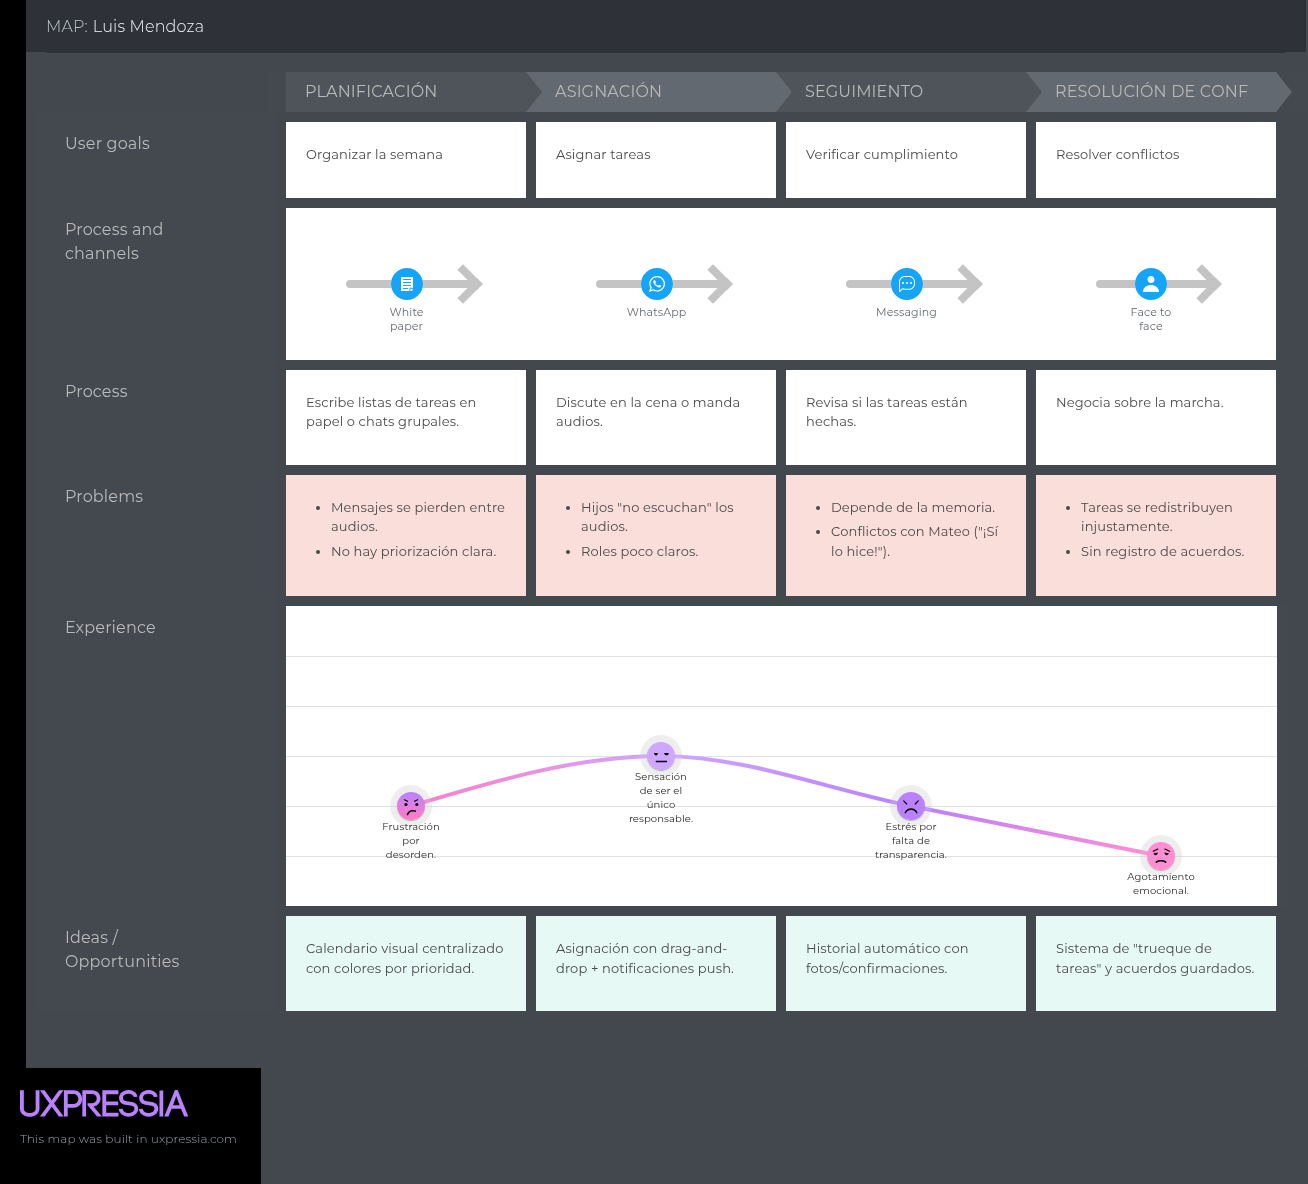
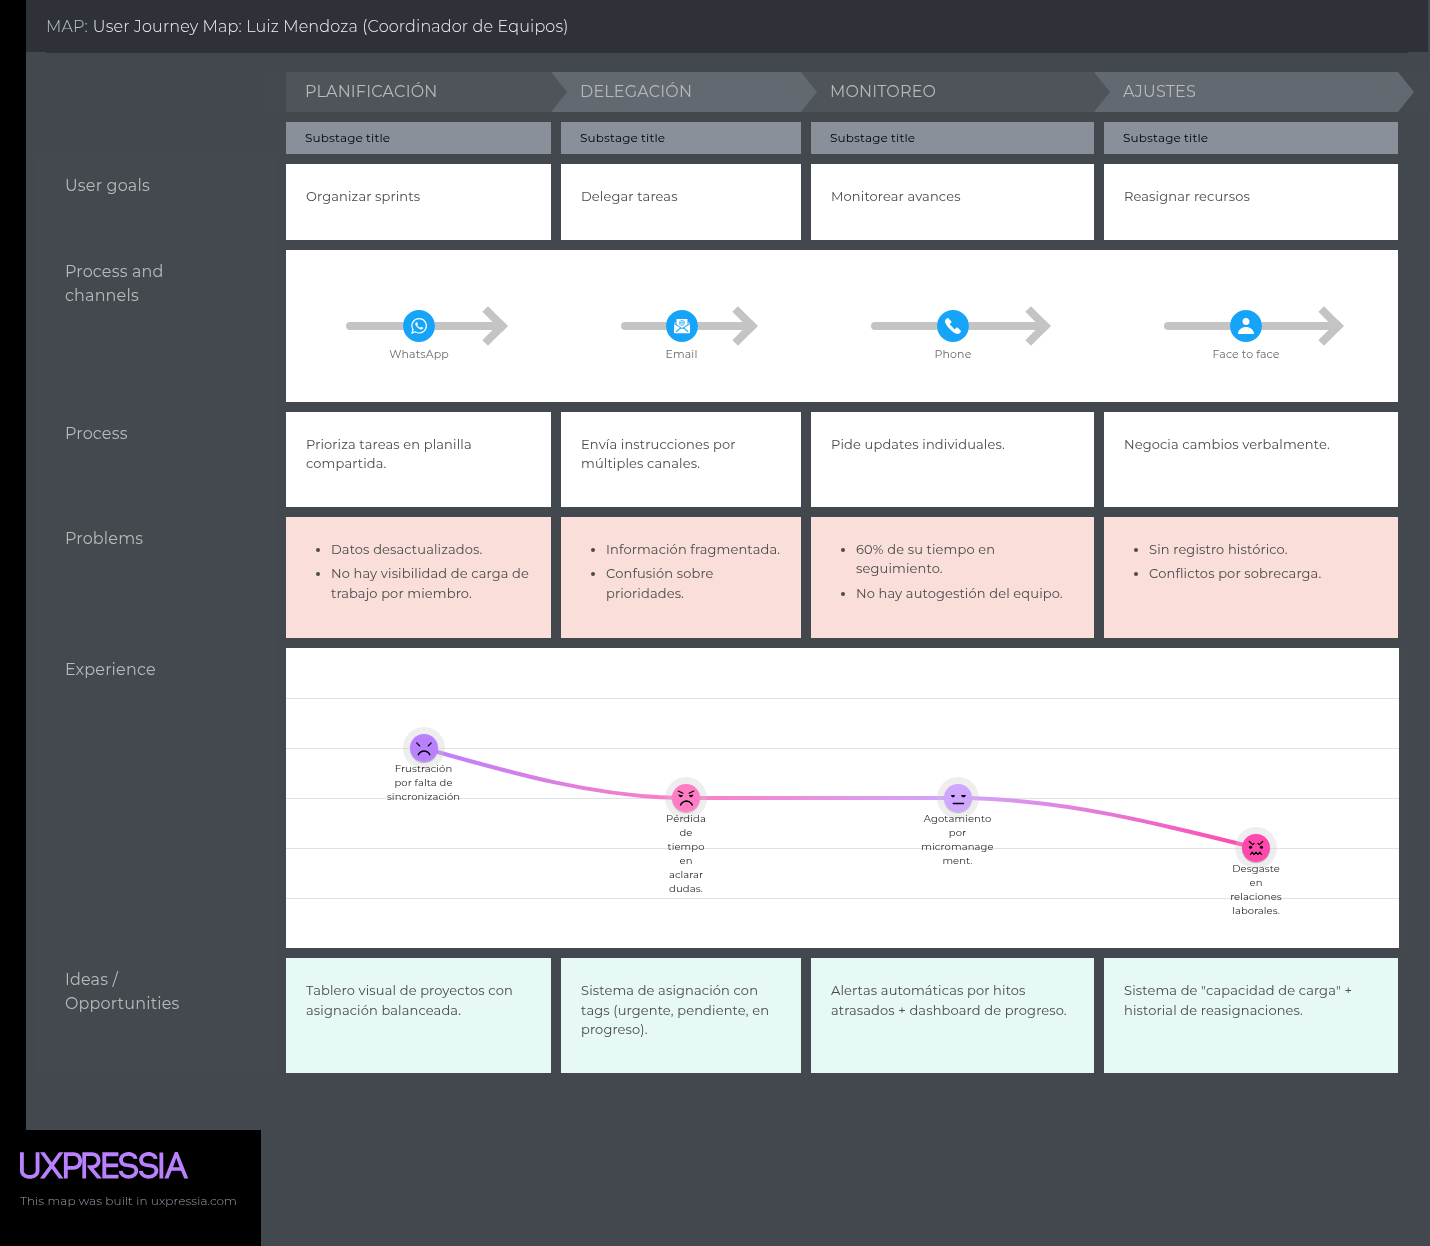
fix(user-journey-mapping): fix user journey mapping with new user personas.

diff --git a/README.md b/README.md
@@ -475,10 +475,10 @@ En esta sección, mostraremos los perfiles de los usuarios que hemos definido pa
 
 En esta sección, se presenta el mapa de viaje del usuario, que ilustra las etapas y experiencias de los usuarios al interactuar con nuestro producto. Este mapa nos ayudará a identificar oportunidades de mejora y a comprender mejor las necesidades de nuestros usuarios.
 
-**1. User Journey: Encargado o Cabeza de la Familia**
+**1. User Journey: Coordinador de equipos**
 <img src="images/chapter-2/JOURNEY1.png" alt="User1 Journey" />
 
-**2. User Journey: Integrante de la Familia**
+**2. User Journey: Miembro de equipo**
 <img src="images/chapter-2/JOURNEY2.png" alt="User2 Journey" />
 
 #### 2.3.4. Empathy Mapping
